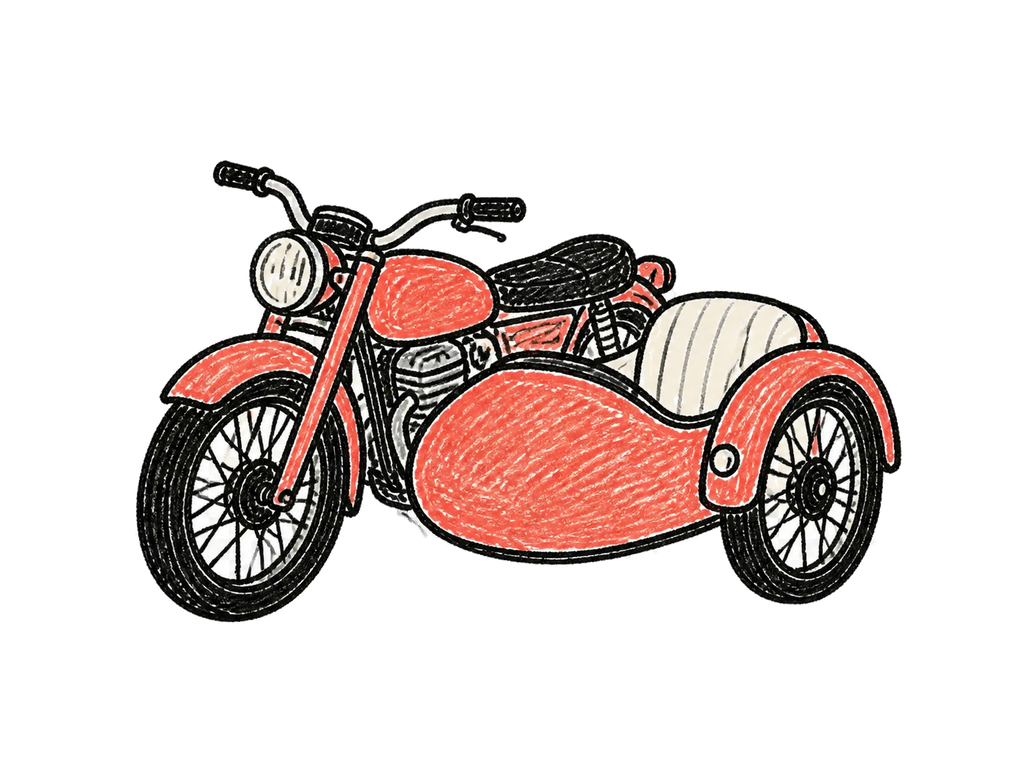
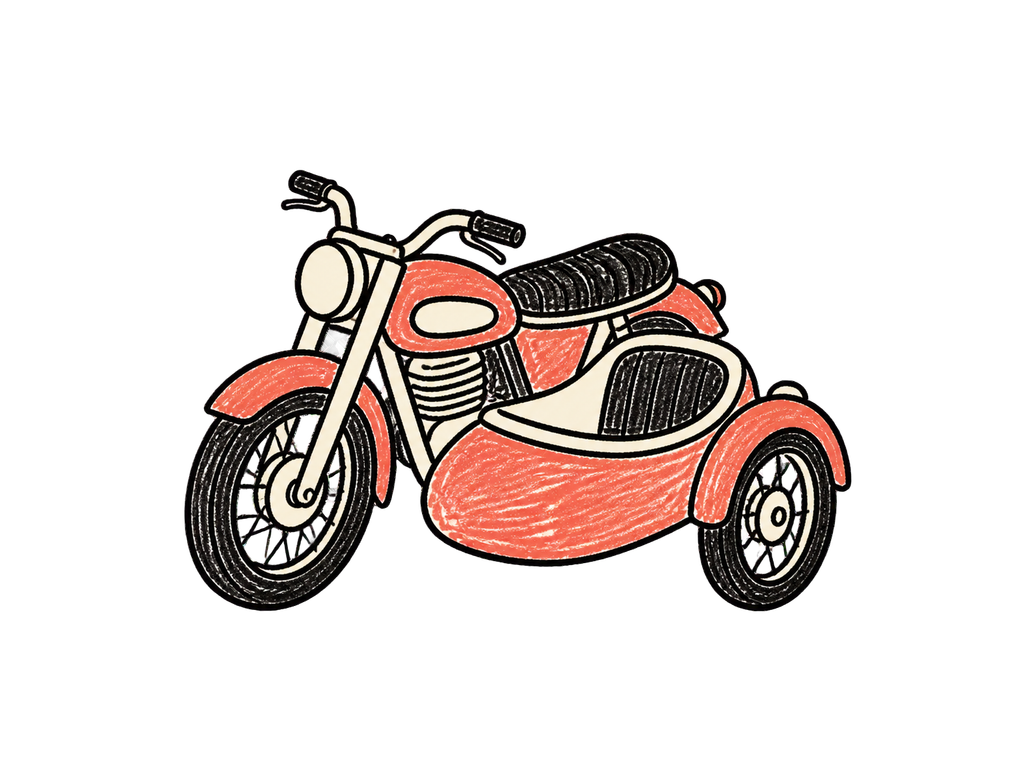
fix: replace checkerboard-derived story props

Changed region(s): [[0.125, 0.1875, 0.9062, 0.8125]]

diff --git a/src/components/invitation/story/storyAssets.test.ts b/src/components/invitation/story/storyAssets.test.ts
@@ -100,6 +100,21 @@ const OPENING_AND_OFFICE_FILES = [
   { src: "/story/doodle-v2/sidecar.png", width: 1024, height: 768, hasAlpha: true },
 ] as const;
 
+const TRANSPARENT_PROP_FILES = [
+  {
+    src: "/story/doodle-v2/06-office-desk.webp",
+    minimumTransparentRatio: 0.35,
+    minimumOpaqueRatio: 0.08,
+    minimumPadding: { left: 16, top: 40, right: 16, bottom: 8 },
+  },
+  {
+    src: "/story/doodle-v2/sidecar.png",
+    minimumTransparentRatio: 0.45,
+    minimumOpaqueRatio: 0.08,
+    minimumPadding: { left: 64, top: 64, right: 64, bottom: 64 },
+  },
+] as const;
+
 const SPRITE_CELL_SIZE = 512;
 const MINIMUM_SPRITE_PADDING = 80;
 
@@ -129,6 +144,10 @@ function alphaBounds(
 
   if (maxX === -1 || maxY === -1) return undefined;
   return { left: minX, top: minY, right: SPRITE_CELL_SIZE - 1 - maxX, bottom: SPRITE_CELL_SIZE - 1 - maxY };
+}
+
+function pixelAlpha(data: Buffer, channels: number, width: number, x: number, y: number) {
+  return data[(y * width + x) * channels + 3];
 }
 
 test("every story asset exists under doodle-v2 and declares positive dimensions", () => {
@@ -183,6 +202,61 @@ test("opening and office scenes register their exact files, dimensions, and alph
     assert.equal(metadata.width, asset.width, `${asset.src} width`);
     assert.equal(metadata.height, asset.height, `${asset.src} height`);
     assert.equal(metadata.hasAlpha, asset.hasAlpha, `${asset.src} alpha`);
+  }
+});
+
+test("transparent props keep meaningful alpha coverage, artwork, clear background samples, and padding", async () => {
+  for (const asset of TRANSPARENT_PROP_FILES) {
+    const filePath = join(process.cwd(), "public", asset.src.slice(1));
+    const { data, info } = await sharp(filePath).ensureAlpha().raw().toBuffer({ resolveWithObject: true });
+    const totalPixels = info.width * info.height;
+    let transparentPixels = 0;
+    let opaquePixels = 0;
+    let minX = info.width;
+    let minY = info.height;
+    let maxX = -1;
+    let maxY = -1;
+
+    for (let y = 0; y < info.height; y++) {
+      for (let x = 0; x < info.width; x++) {
+        const alpha = pixelAlpha(data, info.channels, info.width, x, y);
+        if (alpha === 0) transparentPixels++;
+        if (alpha === 255) opaquePixels++;
+        if (alpha === 0) continue;
+        minX = Math.min(minX, x);
+        minY = Math.min(minY, y);
+        maxX = Math.max(maxX, x);
+        maxY = Math.max(maxY, y);
+      }
+    }
+
+    assert.ok(transparentPixels / totalPixels >= asset.minimumTransparentRatio, `${asset.src} transparent coverage`);
+    assert.ok(opaquePixels / totalPixels >= asset.minimumOpaqueRatio, `${asset.src} opaque artwork`);
+    assert.ok(maxX >= minX && maxY >= minY, `${asset.src} nonempty alpha bounds`);
+
+    const backgroundSamples = [
+      [0, 0],
+      [info.width - 1, 0],
+      [0, info.height - 1],
+      [info.width - 1, info.height - 1],
+      [Math.floor(info.width / 2), 0],
+    ] as const;
+    for (const [x, y] of backgroundSamples) {
+      assert.equal(pixelAlpha(data, info.channels, info.width, x, y), 0, `${asset.src} transparent sample ${x},${y}`);
+    }
+
+    const padding = {
+      left: minX,
+      top: minY,
+      right: info.width - 1 - maxX,
+      bottom: info.height - 1 - maxY,
+    };
+    for (const edge of ["left", "top", "right", "bottom"] as const) {
+      assert.ok(
+        padding[edge] >= asset.minimumPadding[edge],
+        `${asset.src} ${edge} padding: ${padding[edge]}px`,
+      );
+    }
   }
 });
 
